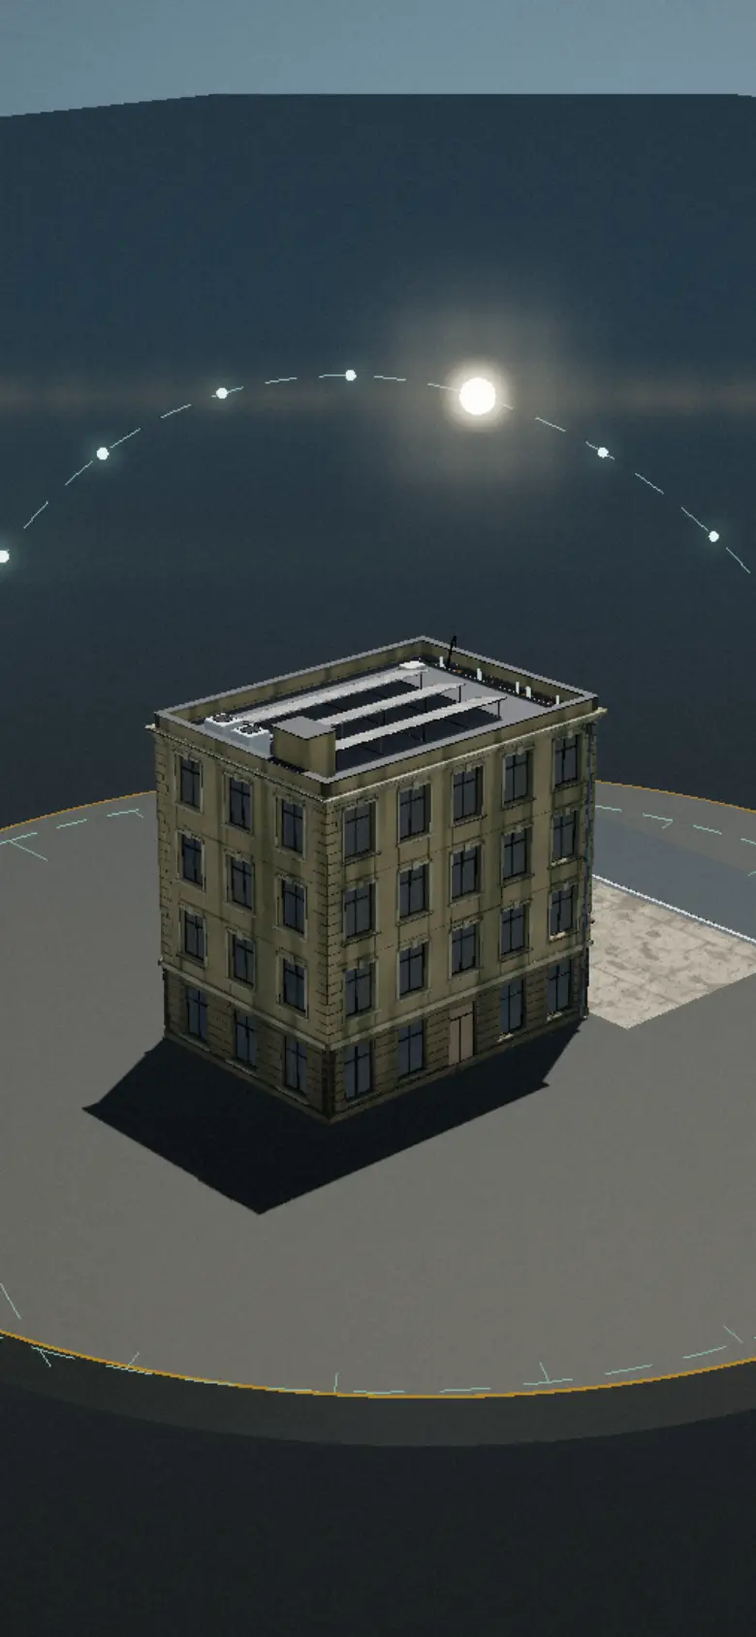
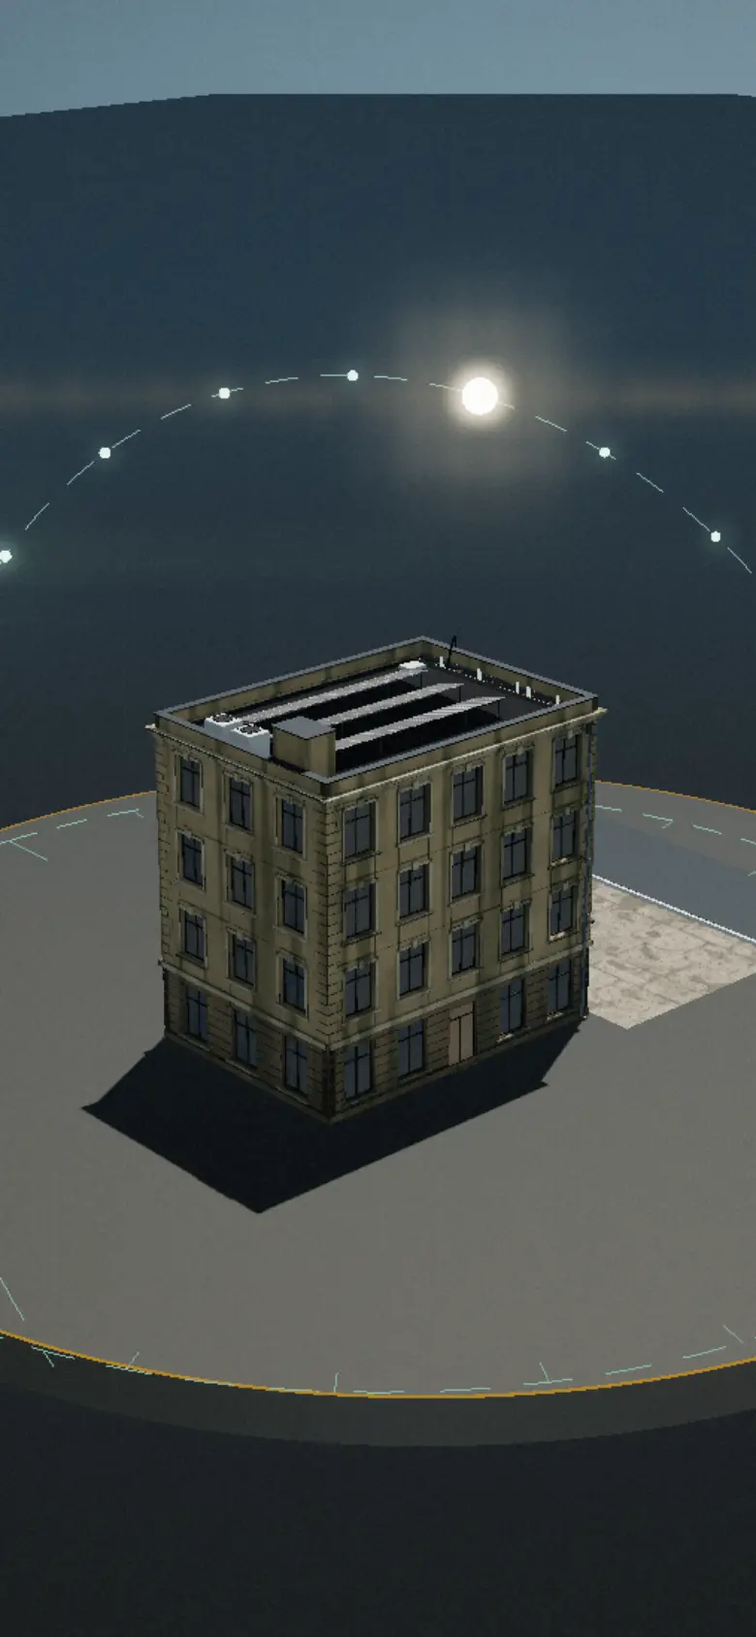
Process take polish, hero dew with a pointer squeegee, docs
- process: dark roof membrane and darker aluminium so the coping no longer rings the roof;
  solar dust lets the cells show; darker soot, a longer wet band and a foam line at the
  soft-wash front; a rounded purification trailer with stainless vessels, a hose reel and a
  meter that reads the water live (062 to 000 ppm); phone site report docks at the foot
- hero: after the fan stroke, dew re-forms on the glass 8 to 30 s after each pixel was last
  wiped, and the pointer is a squeegee that wipes it (pointer devices, no reduced motion)
- README: the Blender building pipeline and review passes 4 and 5; untrack the hook cache

diff --git a/src/scenes/process.ts b/src/scenes/process.ts
@@ -18,6 +18,7 @@ import { clamp, smooth, lerp, band, rng, invLerp } from '../core/util';
 import { sunAt } from '../core/sun';
 import { GLTFLoader } from 'three/examples/jsm/loaders/GLTFLoader.js';
 import { DRACOLoader } from 'three/examples/jsm/loaders/DRACOLoader.js';
+import { RoundedBoxGeometry } from 'three/examples/jsm/geometries/RoundedBoxGeometry.js';
 
 /** The Blender model (Draco). Phones drop requests, so it retries twice. */
 function loadModel(url: string, tries = 3): Promise<{ scene: THREE.Group }> {
@@ -120,16 +121,19 @@ ${NOISE}`)
   float drop = floor((hz + 30.0) / 2.4);
   float front = uWallFront + dh(vec2(drop, 3.7)) * 1.6;
   float cleanW = smoothstep(front - 0.12, front + 0.12, vWPos.y);
-  gWet = cleanW * smoothstep(front + 3.0, front, vWPos.y) * step(-1.5, uWallFront) * step(uWallFront, 16.0);
+  float washing = step(-1.5, uWallFront) * step(uWallFront, 16.0);
+  gWet = cleanW * smoothstep(front + 3.6, front, vWPos.y) * washing;
   gDirt = dirtW * (1.0 - cleanW);
   #ifdef USE_AOMAP
     float aoS = texture2D(aoMap, vAoMapUv).r;
     gDirt = clamp(gDirt * mix(1.5, 0.85, aoS), 0.0, 1.0);
     diffuseColor.rgb *= mix(0.6, 1.0, aoS);
   #endif
-  vec3 grimeC = diffuseColor.rgb * vec3(0.3, 0.32, 0.28) + vec3(0.015, 0.03, 0.018) * streak;
+  vec3 grimeC = diffuseColor.rgb * vec3(0.24, 0.25, 0.22) + vec3(0.012, 0.028, 0.016) * streak;
   diffuseColor.rgb = mix(diffuseColor.rgb, grimeC, gDirt);
-  diffuseColor.rgb *= 1.0 - gWet * 0.32;
+  diffuseColor.rgb *= 1.0 - gWet * 0.45;
+  // the soft-wash front itself: a thin line of foam where the rinse meets the dirt
+  diffuseColor.rgb += vec3(0.42, 0.44, 0.42) * (1.0 - smoothstep(0.0, 0.1, abs(vWPos.y - front))) * washing * (0.6 + 0.4 * dn(vec2(hz * 9.0, uTime * 2.0)));
   roughnessFactor = mix(roughnessFactor, 0.35, gWet);
 #elif DIRT_KIND == 1
   // glass: milky film and dried runs; cleaned drop by drop (curtain wall) or by the pole (shopfront)
@@ -202,7 +206,7 @@ ${NOISE}`)
   float cleanS = r < floor(s) ? 1.0 : (r > floor(s) ? 0.0 : smoothstep(bx + 0.1, bx - 0.1, vWPos.x));
   if (s >= 3.0) cleanS = 1.0;
   gDirt = dust * (1.0 - cleanS);
-  diffuseColor.rgb = mix(diffuseColor.rgb, vec3(0.52, 0.5, 0.46), gDirt * 0.8);
+  diffuseColor.rgb = mix(diffuseColor.rgb, vec3(0.42, 0.4, 0.36), gDirt * 0.52);
   roughnessFactor = mix(roughnessFactor, 0.75, gDirt);
   metalnessFactor = mix(metalnessFactor, 0.0, gDirt);
 #endif
@@ -366,6 +370,24 @@ export class ProcessScene extends GLStage {
   private tmpS = new THREE.Vector3(1, 1, 1);
   /** reading for the HUD: water at the brush */
   tds = 62;
+  private meterCanvas = document.createElement('canvas');
+  private meterTex: THREE.CanvasTexture | null = null;
+  private meterShown = -1;
+
+  private drawMeter(ppm: number): void {
+    const g = this.meterCanvas.getContext('2d');
+    if (!g || !this.meterTex) return;
+    g.fillStyle = '#071014';
+    g.fillRect(0, 0, 256, 96);
+    g.fillStyle = ppm > 0 ? '#c47a2c' : '#8ec5b1';
+    g.font = '300 64px "Mona Sans", sans-serif';
+    g.textBaseline = 'middle';
+    g.fillText(String(ppm).padStart(3, '0'), 14, 52);
+    g.font = '500 22px "Mona Sans", sans-serif';
+    g.fillText('ppm', 170, 62);
+    this.meterTex.needsUpdate = true;
+    this.meterShown = ppm;
+  }
 
   constructor(canvas: HTMLCanvasElement, take: Take) {
     super(canvas, take, {
@@ -530,6 +552,8 @@ export class ProcessScene extends GLStage {
       glass_shop: shop,
       spandrel: dirtMaterial(1, S, { color: 0x2b353b, roughness: 0.2, metalness: 0.65, envMapIntensity: 1.1 }),
       solar,
+      roof: new THREE.MeshStandardMaterial({ color: 0x1c1d1f, roughness: 0.95, metalness: 0 }),
+      alu: new THREE.MeshStandardMaterial({ color: 0x737a7f, roughness: 0.42, metalness: 0.9 }),
     };
     // anchors near the east parapet
     const anchorGeo = new THREE.CylinderGeometry(0.06, 0.08, 0.5, 10);
@@ -554,24 +578,43 @@ export class ProcessScene extends GLStage {
     add(new THREE.BoxGeometry(5.5, 0.02, 2 * R_ARC), new THREE.MeshStandardMaterial({ color: 0x4d5254, roughness: 0.9 }), FORE.x1 + 3.2, 0.0, 0, false);
     // purification trailer and the hose up to the parapet
     const trailer = new THREE.Group();
-    const body = new THREE.Mesh(new THREE.BoxGeometry(3.0, 1.5, 1.8), white);
-    body.position.y = 1.15;
+    const steelMat = new THREE.MeshStandardMaterial({ color: 0xc9ced1, roughness: 0.28, metalness: 0.85 });
+    const body = new THREE.Mesh(new RoundedBoxGeometry(2.6, 1.25, 1.7, 4, 0.12), white);
+    body.position.set(-0.2, 1.2, 0);
     body.castShadow = true;
-    trailer.add(body);
-    const tankGeo = new THREE.CylinderGeometry(0.32, 0.32, 1.3, 16);
-    for (const z of [-0.45, 0.45]) {
-      const t = new THREE.Mesh(tankGeo, brass);
-      t.position.set(0.9, 1.95, z);
+    const chassis = new THREE.Mesh(new THREE.BoxGeometry(3.4, 0.14, 1.5), dark);
+    chassis.position.y = 0.5;
+    const drawbar = new THREE.Mesh(new THREE.BoxGeometry(1.1, 0.08, 0.08), dark);
+    drawbar.position.set(-2.1, 0.5, 0);
+    trailer.add(body, chassis, drawbar);
+    // two pressure vessels (carbon and mixed-bed resin), stainless with domed ends
+    for (const z of [-0.42, 0.42]) {
+      const t = new THREE.Mesh(new THREE.CapsuleGeometry(0.28, 0.9, 6, 20), steelMat);
+      t.position.set(1.2, 1.55, z);
       t.castShadow = true;
       trailer.add(t);
     }
-    const wheelGeo = new THREE.CylinderGeometry(0.35, 0.35, 0.22, 16);
-    for (const z of [-0.95, 0.95]) {
+    // hose reel on the side
+    const reel = new THREE.Mesh(new THREE.TorusGeometry(0.42, 0.11, 10, 32), new THREE.MeshStandardMaterial({ color: 0x1b1f22, roughness: 0.6 }));
+    reel.position.set(-0.5, 1.25, 0.92);
+    trailer.add(reel);
+    // the meter: reads the water at the brush, live
+    this.meterCanvas.width = 256;
+    this.meterCanvas.height = 96;
+    this.meterTex = new THREE.CanvasTexture(this.meterCanvas);
+    this.meterTex.colorSpace = THREE.SRGBColorSpace;
+    const meter = new THREE.Mesh(new THREE.PlaneGeometry(0.62, 0.23), new THREE.MeshBasicMaterial({ map: this.meterTex, toneMapped: false }));
+    meter.position.set(0.3, 1.45, 0.86);
+    trailer.add(meter);
+    this.drawMeter(62);
+    const wheelGeo = new THREE.CylinderGeometry(0.36, 0.36, 0.24, 20);
+    for (const z of [-0.88, 0.88]) {
       const wh = new THREE.Mesh(wheelGeo, dark);
       wh.rotation.x = Math.PI / 2;
-      wh.position.set(0, 0.35, z);
+      wh.position.set(0.2, 0.36, z);
       trailer.add(wh);
     }
+    this.disposables.push(this.meterTex);
     trailer.position.set(FORE.x1 - 2.2, 0, FORE.z0 + 2.0);
     this.scene.add(trailer);
     const hoseCurve = new THREE.CatmullRomCurve3([
@@ -823,6 +866,7 @@ export class ProcessScene extends GLStage {
     const fill = step < 2 ? 0 : step === 2 ? smooth(L(2)) : 1;
     this.hoseMat.uniforms.uFill!.value = fill;
     this.tds = step < 2 ? 62 : step === 2 ? Math.round(62 * (1 - smooth(clamp(L(2) / 0.8)))) : 0;
+    if (this.tds !== this.meterShown) this.drawMeter(this.tds);
 
     // roof: gutter vac (first 55%), downpipe flush, then the solar brush
     const roofL = step < 3 ? 0 : step === 3 ? L(3) : 1;

diff --git a/src/scenes/hero.ts b/src/scenes/hero.ts
@@ -14,14 +14,18 @@ import * as THREE from 'three';
 import { GLStage } from '../gl/stage';
 import type { Take } from '../core/scroll';
 import { loadTexture } from '../core/assets';
-import { clamp, smooth, lerp } from '../core/util';
+import { clamp, smooth, lerp, isTouch, prefersReducedMotion } from '../core/util';
+
+/** seconds per unit in the mask's wipe-time channel */
+const STAMP = 1024;
 import { pointer } from '../core/cursor';
 
 const VERT = /* glsl */ `
 varying vec2 vUv;
 void main() { vUv = uv; gl_Position = vec4(position.xy, 0.0, 1.0); }`;
 
-// Paints the blade's footprint into the wipe mask: R = cleaned, G = time it was cleaned (s / 16).
+// Paints the blade's footprint into the wipe mask: R = cleaned, G = time it was last wiped (s / 1024,
+// max-blended so the latest wipe wins; half float keeps that to about half a second).
 const PAINT_FRAG = /* glsl */ `
 uniform vec4 uSeg; // a.xy, b.xy in aspect-corrected units (x * aspect)
 uniform float uHalfW; uniform float uAspect; uniform float uStamp;
@@ -40,7 +44,7 @@ uniform sampler2D tFilm; uniform sampler2D tGrime; uniform sampler2D tMask;
 uniform vec2 uRes; uniform float uTime; uniform float uIntroT; uniform float uFilmAspect; uniform float uFilmOn;
 uniform vec4 uBlade; // centre xy (aspect units), angle (rad from vertical), half length
 uniform float uBladeOn; uniform vec2 uDir; // travel direction (unit, aspect units)
-uniform float uScroll; uniform vec2 uPointer;
+uniform float uScroll; uniform vec2 uPointer; uniform float uDew;
 uniform vec4 uDrips[3]; // x, y-start, t-start, size
 varying vec2 vUv;
 
@@ -71,7 +75,7 @@ void main() {
   vec2 p = vec2(uv.x * aspect, uv.y);
   vec4 mask = texture2D(tMask, uv);
   float clean = mask.r;
-  float age = uIntroT - mask.g * 16.0;
+  float age = uIntroT - mask.g * 1024.0;
   float wet = clean * exp(-max(age, 0.0) * 1.6) * step(0.0005, mask.g + clean * 0.0);
 
   // grime: dust film and dried rings from the texture, varied with a slow noise so it never tiles
@@ -96,6 +100,17 @@ void main() {
   col = col * (1.0 - dirt * 0.42) + dustCol * dirt * 0.36;
   // hard-water rings catch the light a little brighter than the film
   col += vec3(0.85, 0.82, 0.76) * smoothstep(0.55, 0.9, g) * (1.0 - clean) * 0.22;
+  // dew: before sunrise the clean glass slowly mists over again (8 to 30 s after it was last wiped):
+  // the image softens, lifts and cools, and micro-droplets catch the light. The pointer wipes it.
+  float dew = uDew * clean * smoothstep(8.0, 30.0, age) * 0.62;
+  if (dew > 0.002) {
+    vec3 fog = filmSoft(uv, 8.0);
+    float fl = dot(fog, vec3(0.299, 0.587, 0.114));
+    fog = mix(fog, vec3(fl), 0.4) * 0.74 + vec3(0.36, 0.41, 0.45) * 0.32;
+    float beads = smoothstep(0.86, 0.97, noise(uv * uRes / 3.2)) + smoothstep(0.9, 0.99, noise(uv * uRes / 9.0 + 3.7)) * 0.6;
+    fog += vec3(0.86, 0.92, 0.96) * beads * 0.14;
+    col = mix(col, fog, dew);
+  }
   // wet sheen
   col += vec3(0.75, 0.86, 0.9) * wet * 0.05 * (0.5 + flow.x);
 
@@ -249,6 +264,9 @@ export class HeroScene extends GLStage {
   private videoTex: THREE.VideoTexture;
   introT = -1;
   private last: BladePose | null = null;
+  /** dew and the pointer's squeegee: pointer devices only, never with reduced motion */
+  private dewOn = !isTouch() && !prefersReducedMotion();
+  private lastPtr: { x: number; y: number } | null = null;
   /** blade position in screen pixels for the DOM (wordmark), or null */
   bladePx: { x: number; y: number; pass: number } | null = null;
   scrollP = 0;
@@ -282,6 +300,7 @@ export class HeroScene extends GLStage {
         uScroll: { value: 0 },
         uPointer: { value: new THREE.Vector2() },
         uDrips: { value: [new THREE.Vector4(), new THREE.Vector4(), new THREE.Vector4()] },
+        uDew: { value: 0 },
       },
     });
     const mesh = new THREE.Mesh(quad, this.mat);
@@ -391,7 +410,7 @@ export class HeroScene extends GLStage {
     const u = this.paintMat.uniforms;
     u.uAspect!.value = asp;
     u.uHalfW!.value = 0.018;
-    u.uStamp!.value = clamp(t / 16);
+    u.uStamp!.value = clamp(t / STAMP);
     for (let i = 1; i <= steps; i++) {
       const k = i / steps;
       const x = lerp(a.x, b.x, k), y = lerp(a.y, b.y, k), ang = lerp(a.a, b.a, k);
@@ -439,6 +458,18 @@ export class HeroScene extends GLStage {
         }
         this.bladePx = pose.on ? this.bladePx : null;
       }
+      // after the stroke: dew forms, and the pointer is a squeegee that wipes it away
+      if (this.dewOn && t > STROKE.end + 0.4) {
+        u.uDew!.value = 1;
+        const r = this.canvas.getBoundingClientRect();
+        const inside = pointer.active && pointer.x >= r.left && pointer.x <= r.right && pointer.y >= r.top && pointer.y <= r.bottom;
+        const fresh = performance.now() - pointer.moved < 100;
+        if (inside && fresh) {
+          const pt = { x: (pointer.x - r.left) / r.width, y: 1 - (pointer.y - r.top) / r.height };
+          if (this.lastPtr) this.wipe(this.lastPtr, pt, t);
+          this.lastPtr = pt;
+        } else if (!inside) this.lastPtr = null;
+      }
       // drips where the blade turned
       const drips = u.uDrips!.value as THREE.Vector4[];
       const t1 = STROKE.start + STROKE.pass;
@@ -447,6 +478,34 @@ export class HeroScene extends GLStage {
       drips[1]!.set(0.035, 0.28, t2 + 0.2, 7);
       drips[2]!.set(0.71, 0.86, t1 - 0.25, 5);
     }
+  }
+
+  /** the pointer's blade: a short squeegee held broadside to its own motion */
+  private wipe(a: { x: number; y: number }, b: { x: number; y: number }, t: number): void {
+    const asp = this.aspect;
+    const dx = (b.x - a.x) * asp, dy = b.y - a.y;
+    const dist = Math.hypot(dx, dy);
+    if (dist < 1e-4) return;
+    const r = this.renderer;
+    const auto = r.autoClear;
+    r.autoClear = false;
+    r.setRenderTarget(this.maskRT);
+    const u = this.paintMat.uniforms;
+    u.uAspect!.value = asp;
+    u.uHalfW!.value = 0.012;
+    u.uStamp!.value = clamp(t / STAMP);
+    // blade direction: perpendicular to the stroke
+    const nx = -dy / dist, ny = dx / dist;
+    const L = 0.075;
+    const steps = Math.min(24, Math.max(1, Math.ceil(dist / 0.008)));
+    for (let i = 1; i <= steps; i++) {
+      const k = i / steps;
+      const cx = (a.x + (b.x - a.x) * k) * asp, cy = a.y + (b.y - a.y) * k;
+      (u.uSeg!.value as THREE.Vector4).set(cx - nx * L, cy - ny * L, cx + nx * L, cy + ny * L);
+      r.render(this.paintScene, this.camera);
+    }
+    r.setRenderTarget(null);
+    r.autoClear = auto;
   }
 
   private clearMaskSoft(): void {

diff --git a/src/styles/main.css b/src/styles/main.css
@@ -519,7 +519,8 @@ html.js .is-intro .wordmark { opacity: 1; transition: opacity 0.4s; }
   .services__frame { height: 31svh; }
   .process__head { width: auto; right: var(--gutter); top: calc(var(--hud-h) + 9vh); }
   .process__steps li, .process__steps li.is-right { left: var(--gutter); right: var(--gutter); width: auto; }
-  .process__report { left: var(--gutter); right: var(--gutter); width: auto; }
+  .process__report { left: var(--gutter); right: var(--gutter); width: auto; top: auto; bottom: calc(var(--gutter) * 0.55 + 3.4em); transform: none; padding: 1rem 1.1rem; }
+  .process__report table { font-size: 0.76rem; }
   .work__head { width: auto; right: var(--gutter); }
   .proj { left: var(--gutter); right: var(--gutter); width: auto; }
   .team__head .display, .team__head p { grid-column: 1 / 13; }
@@ -585,3 +586,8 @@ html:has(.ms) { background: var(--etch); color-scheme: light; }
 /* the copy that surfaces in the forecourt sits on a darker foot of the plate, never on the brightest reflection */
 .contact__tilt::after { content: ''; position: absolute; inset: 0; background: linear-gradient(180deg, transparent 38%, rgba(6, 9, 12, 0.72) 74%, #06090c 100%); pointer-events: none; }
 .contact__head { text-shadow: 0 2px 24px rgba(0, 0, 0, 0.6); }
+
+/* the dew hint: only where there is a pointer to wipe with, and never with reduced motion */
+.hero__dew { position: absolute; z-index: 3; right: var(--gutter); bottom: calc(clamp(96px, 17vh, 190px) + 1.7em); font-family: var(--serif); font-style: italic; font-size: 0.95rem; color: rgba(228, 234, 230, 0.78); max-width: 24ch; text-align: right; display: none; }
+@media (hover: hover) and (pointer: fine) and (prefers-reduced-motion: no-preference) { .hero__dew { display: block; } }
+@media (max-width: 860px) { .hero__dew { display: none; } }

diff --git a/src/sections/takes.ts b/src/sections/takes.ts
@@ -124,6 +124,7 @@ export function initProcessUI(lens: () => number): () => void {
   const head = take.el.querySelector<HTMLElement>('.process__head')!;
   const report = take.el.querySelector<HTMLElement>('[data-report]')!;
   const rail = take.el.querySelector<HTMLElement>('[data-rail]')!;
+  const narrow = matchMedia('(max-width: 860px)').matches;
   // shaded side: steps after solar noon (12:40) sit on the right
   steps.forEach((s, i) => s.classList.toggle('is-right', i >= 3 && i !== 7));
   let tds = 62;
@@ -152,7 +153,8 @@ export function initProcessUI(lens: () => number): () => void {
     });
     const r = band(0.905, 0.95, p);
     report.style.opacity = r.toFixed(3);
-    report.style.transform = `translate3d(0, calc(-50% + ${((1 - r) * 20).toFixed(1)}px), 0)`;
+    // phones dock the report at the foot of the frame, desktop centres it on the shaded side
+    report.style.transform = narrow ? `translate3d(0, ${((1 - r) * 20).toFixed(1)}px, 0)` : `translate3d(0, calc(-50% + ${((1 - r) * 20).toFixed(1)}px), 0)`;
     rail.style.transform = `scaleY(${p.toFixed(4)})`;
   }, 40);
   return () => {

diff --git a/index.html b/index.html
@@ -110,6 +110,7 @@
             <div><dt>Public liability</dt><dd><span class="num">$20</span> million</dd></div>
           </dl>
           <p class="hero__scroll" data-hero-in>Scroll to follow the shade</p>
+          <p class="hero__dew" data-hero-in>Dew forms on the glass before sunrise. Wipe it with your cursor.</p>
         </div>
       </section>
 

diff --git a/README.md b/README.md
@@ -15,6 +15,7 @@ npm install && npm run dev
 ```
 
 Then open http://127.0.0.1:5323/ (the method statements page is at /services.html).
+Live: https://meniscus-delta.vercel.app (pushes to `main` on https://github.com/indi886/meniscus deploy it).
 Production: `npm run build && npm run preview` serves http://127.0.0.1:4323/.
 
 ## Pages and takes
@@ -22,10 +23,10 @@ Production: `npm run build && npm run preview` serves http://127.0.0.1:4323/.
 | # | Time | Take | Named camera move | Motion language |
 |---|---|---|---|---|
 | 0 | 04:40 | Preloader | Purge | real bytes (fonts, grime texture, the reel's buffered bytes) drive the reading from 062 ppm (Sydney mains) to 000 ppm through carbon, RO and mixed-bed resin; exits as a water sheet draining off under gravity. Nothing plays until it has fully cleared |
-| 1 | 05:12 | Hero | Locked-off fan stroke | WebGL pane over the commercial: dust and hard-water rings; a brass squeegee (channel, rubber, handle) cleans it in one three-pass fan stroke, pivoting on the blade's lower end at each edge; the bead of water ahead of the rubber refracts the film; drips run from the turns; the wordmark is pulled from a 75 % to a 125 % width channel as the last pass crosses each letter |
+| 1 | 05:12 | Hero | Locked-off fan stroke | WebGL pane over the commercial: dust and hard-water rings; a brass squeegee (channel, rubber, handle) cleans it in one three-pass fan stroke, pivoting on the blade's lower end at each edge; the bead of water ahead of the rubber refracts the film; drips run from the turns; the wordmark is pulled from a 75 % to a 125 % width channel as the last pass crosses each letter. Afterwards dew re-forms on the glass (8 to 30 s after each pixel was last wiped) and the pointer is a squeegee that wipes it away |
 | 2 | 06:40 | About | Polarizer turn | a circular polarizer travels across a sunrise window; turning it through 90° takes the reflected sky out by Malus's law (cos²θ, fully polarised at Brewster's angle, 56.7° for float glass) and the room behind appears; the disc finally opens to fill the frame |
 | 3 | 08:30 | Services | Overhead lane pass | WebGL: each service photo under the grime that service removes; scroll drives a 25° fan jet across it in boustrophedon lanes, top down (wet-dark behind the jet, drying light); the pointer is a second nozzle |
-| 4 | 11:00 → 17:20 | Process | Shade-chase orbit | **signature 3D take**: a corner building as a lit presentation model in a dark studio, under a solar-study dome of today's sun path. Eight scroll-scrubbed steps: survey (lasers, sun path), rig (anchors glint, ropes, exclusion zone), purify (hose fills, HUD reads 062 → 000 ppm), roof (gutter vac swallows leaves, downpipe flush, solar brushed row by row), façade (soft-wash fronts in 2.4 m drops), glass (rope technician descends four drops, then the shopfront by pole), ground (rotary surface cleaner in lanes), reading (golden hour, lights on, site report). The camera always keeps the building between itself and the sun, so the face being worked is the one in shade; tilt-shift depth of field |
+| 4 | 11:00 → 17:20 | Process | Shade-chase orbit | **signature 3D take**: a corner building modelled in Blender, shown as a lit presentation model in a dark studio, under a solar-study dome of today's sun path. Eight scroll-scrubbed steps: survey (lasers, sun path), rig (anchors glint, ropes, exclusion zone), purify (hose fills, HUD reads 062 → 000 ppm), roof (gutter vac swallows leaves, downpipe flush, solar brushed row by row), façade (soft-wash fronts in 2.4 m drops), glass (rope technician descends four drops, then the shopfront by pole), ground (rotary surface cleaner in lanes), reading (golden hour, lights on, site report). The camera always keeps the building between itself and the sun, so the face being worked is the one in shade; tilt-shift depth of field |
 | 5 | 17:48 | Work | Rain-pane traverse and plunge | WebGL: a southerly buster beads the glass; each large drop is a lens holding a project upside down; it sticks, slips under gravity (stick-slip), swallows beads and leaves a trail; the camera plunges in, the image collapses through focus and rights itself, holds, and pulls back out |
 | 6 | 19:05 | Testimonials | Fan-down tilt | a blade fans down each quote: lines below it are still wet (75 % width, heavier, blurred, behind condensation over a blue-hour city), lines above it dry at 125 % |
 | 7 | 19:40 | Team | Truck along the glazing rack | each portrait behind a glazing sample (acid-etched, reeded, grey tint, one-way mirror) that slides away on hover, focus, or (touch) at the middle of the screen; the rack trucks sideways |
@@ -104,6 +105,35 @@ Runtime rules this code keeps:
 - Reduced motion: no smooth scroll, no intro stroke (the pane starts clean), no magnetic effects,
   instant reveals; the takes still scrub with the scroll.
 
+## The building (Blender)
+
+`scripts/blender/build_building.py` models the process take's corner building procedurally in
+headless Blender 5.2, in three.js coordinates so the dirt shader's world-space logic (drops on the
+east face, soft-wash fronts, solar rows, gutters) lines up exactly:
+
+```bash
+"C:/Program Files/Blender Foundation/Blender 5.2/blender.exe" -b -P scripts/blender/build_building.py -- "C:/Users/indik/meniscus"
+```
+
+- 1920s Hawkesbury-sandstone corner block: rusticated ground floor with recessed joints and a plinth
+  course; ashlar upper floors with punched windows in real 350 mm reveals (architraves, projecting
+  sills, keystones, bronze frames with mullion and transom, inset glass); quoins on every stone
+  corner; a string course; a three-step cornice; a parapet with aluminium coping
+- a 2000s refit on the east face: unitised curtain wall in 1.257 m modules with fritted spandrels,
+  pressure-capped mullions and transoms between full-height stone piers; a recessed bronze shopfront
+  with clerestory, a blank sign band and a steel blade canopy on tie rods
+- roof: membrane deck, galvanised box gutters with outlets, a solar array on aluminium racking, two
+  condensers with fan grilles and louvres, a lift overrun, a hatch; a downpipe with rainhead and
+  brackets
+- bevelled edges on stone, trim and metal; 54,680 triangles; Draco GLB **455 KB**
+  (`public/media/model/building.glb`)
+- ambient occlusion baked in Cycles (2048², 1.6 m distance) into one UV atlas →
+  `public/media/model/building-ao.webp`; three.js applies it as `aoMap`, and the dirt shader also
+  darkens crevices with it and lets grime gather where the occlusion is high
+- material names are the contract with `src/scenes/process.ts`, which swaps them for the dirt
+  materials (stone, trim, base → render dirt; glass_cw, glass_win, glass_shop, spandrel → glass
+  dirt; solar → dust) and keeps the rest
+
 ## Media pipeline (fal.ai)
 
 - **Stills**: Seedream 4.5 (`fal-ai/bytedance/seedream/v4.5/text-to-image`) at 2560×1440 (portraits
@@ -151,6 +181,9 @@ each take's state on a phone.
 | 3 | Hero pane stayed dirty: the paint passes were auto-cleared before every render (and the adaptive DPR loop could resize the mask) | `autoClear = false` while painting (hero mask and the services pointer nozzle); mask sized from CSS pixels and copied on resize |
 | 3 | Services dirty glass looked like a flat grey filter; shaded façades went muddy | dirt film modulated by the grime texture, dried runs and ring highlights; a soft fill light from the camera side |
 | 3 | Phone: HUD rows collided; About crowded; services sheet ran into the HUD; contact copy on the brightest reflection | phone HUD shows timecode and reading only; About drops the data grid; services sheet trimmed; a dark falloff at the foot of the contact plate |
+| 4 | The procedural box building was what held the take back | replaced by the Blender model above, AO baked, verified in every framing on desktop and phone |
+| 5 | With the model: the roof membrane and silver coping read as a flat light slab; dust hid the solar cells; the façade wash line was faint; the trailer was a white box; on phones the site report covered the building | dark membrane and darker aluminium; dust lets the cells through; a darker soot tone, a longer wet band and a foam line at the wash front; a rounded trailer with two stainless pressure vessels, a hose reel and a meter that reads the water live (062 → 000 ppm); the report docks at the foot of the frame on phones |
+| 5 | The hero only did something once | dew re-forms on the glass after the stroke and the pointer wipes it (desktop pointers only, never with reduced motion) |
 
 Final state: `npm run build` passes (strict TypeScript); `node scripts/smoke-prod.mjs` against the
 production preview wheel-scrolls both pages on desktop, phone (390 px) and reduced motion with **0
